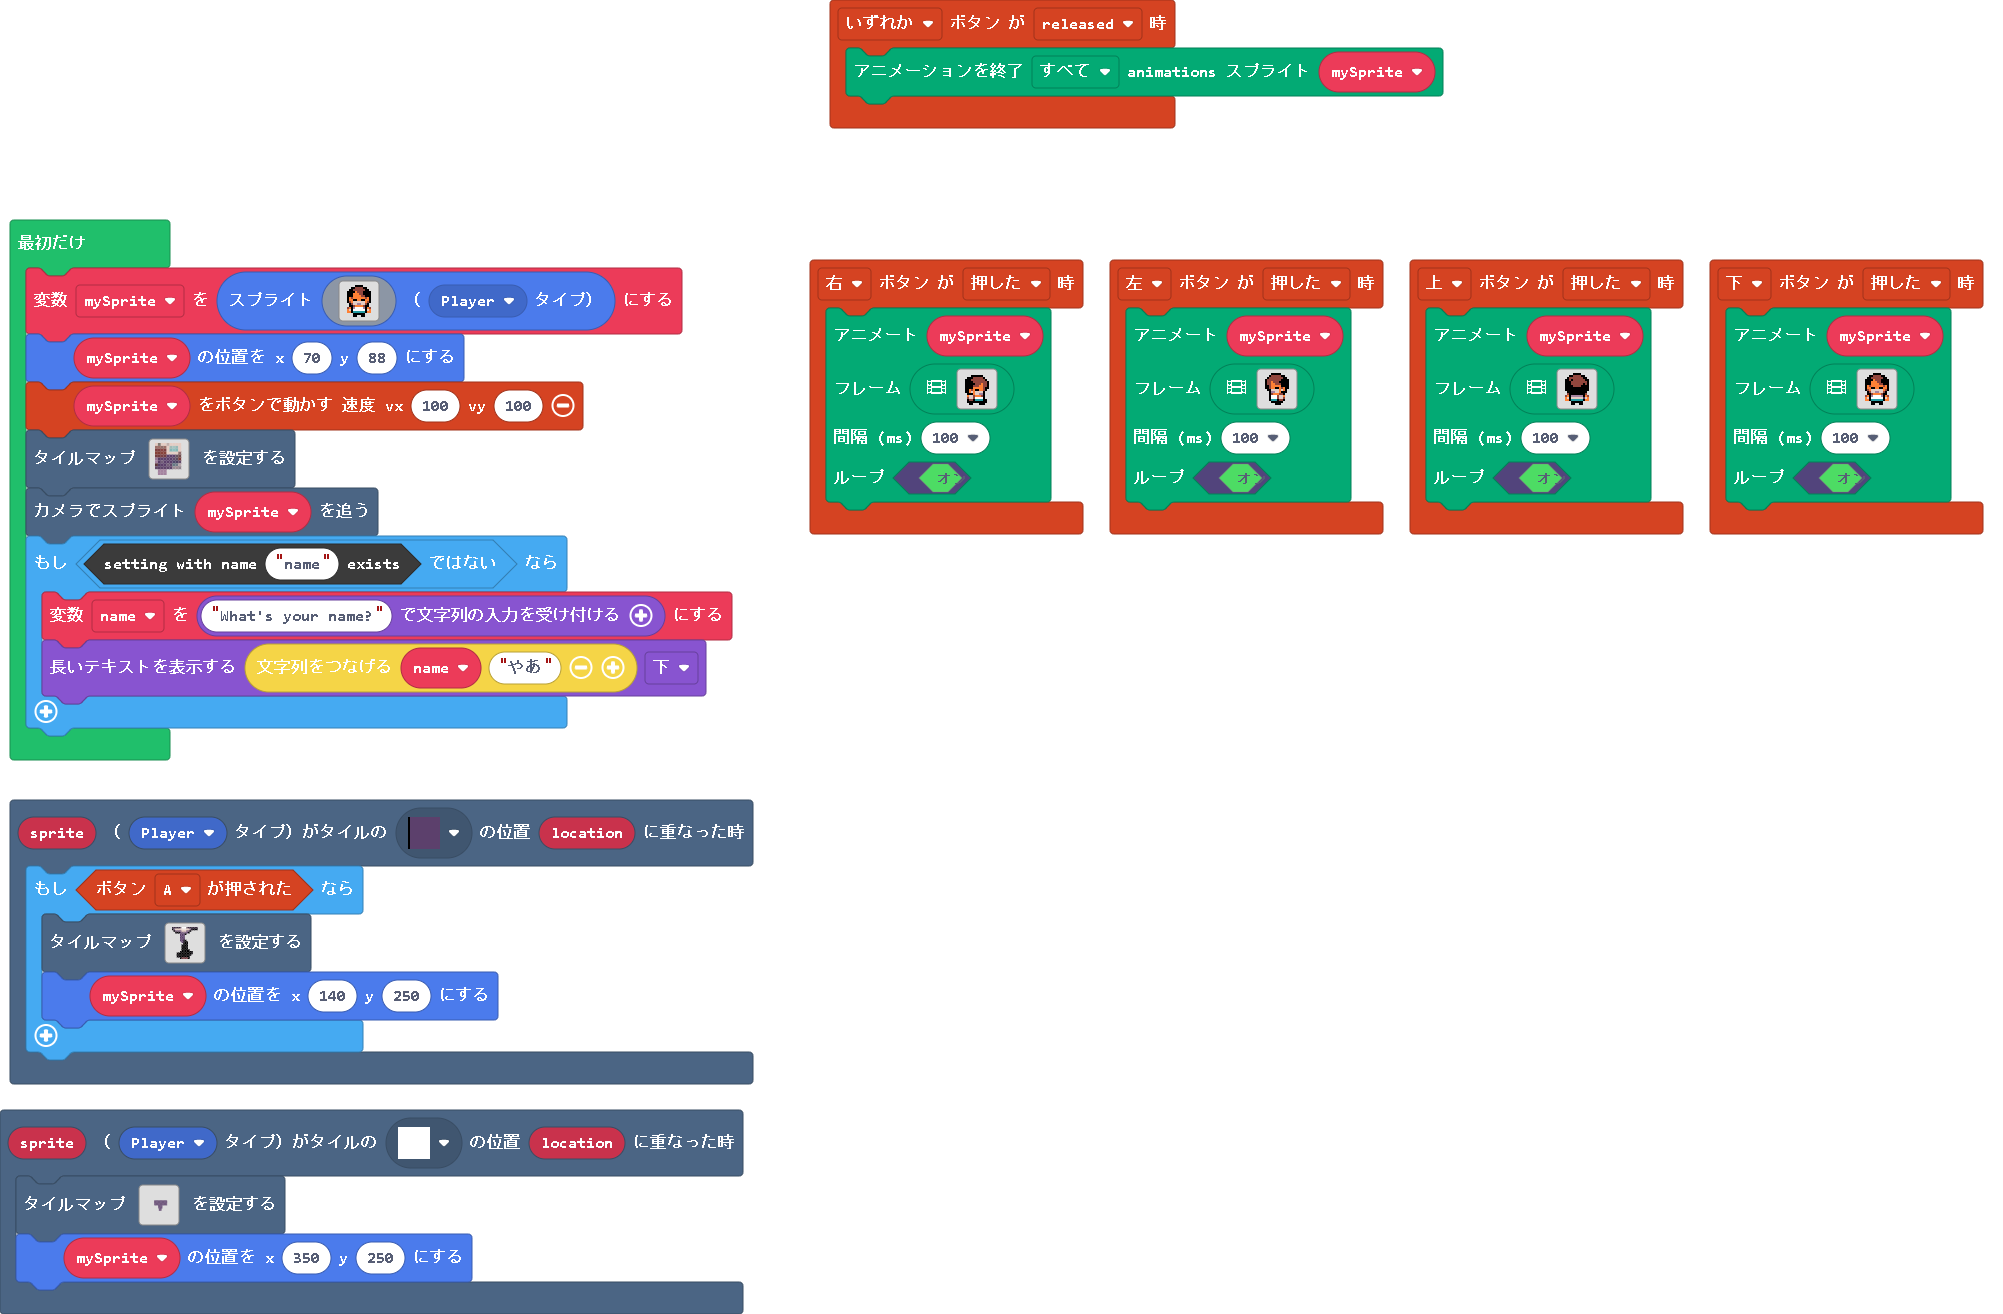
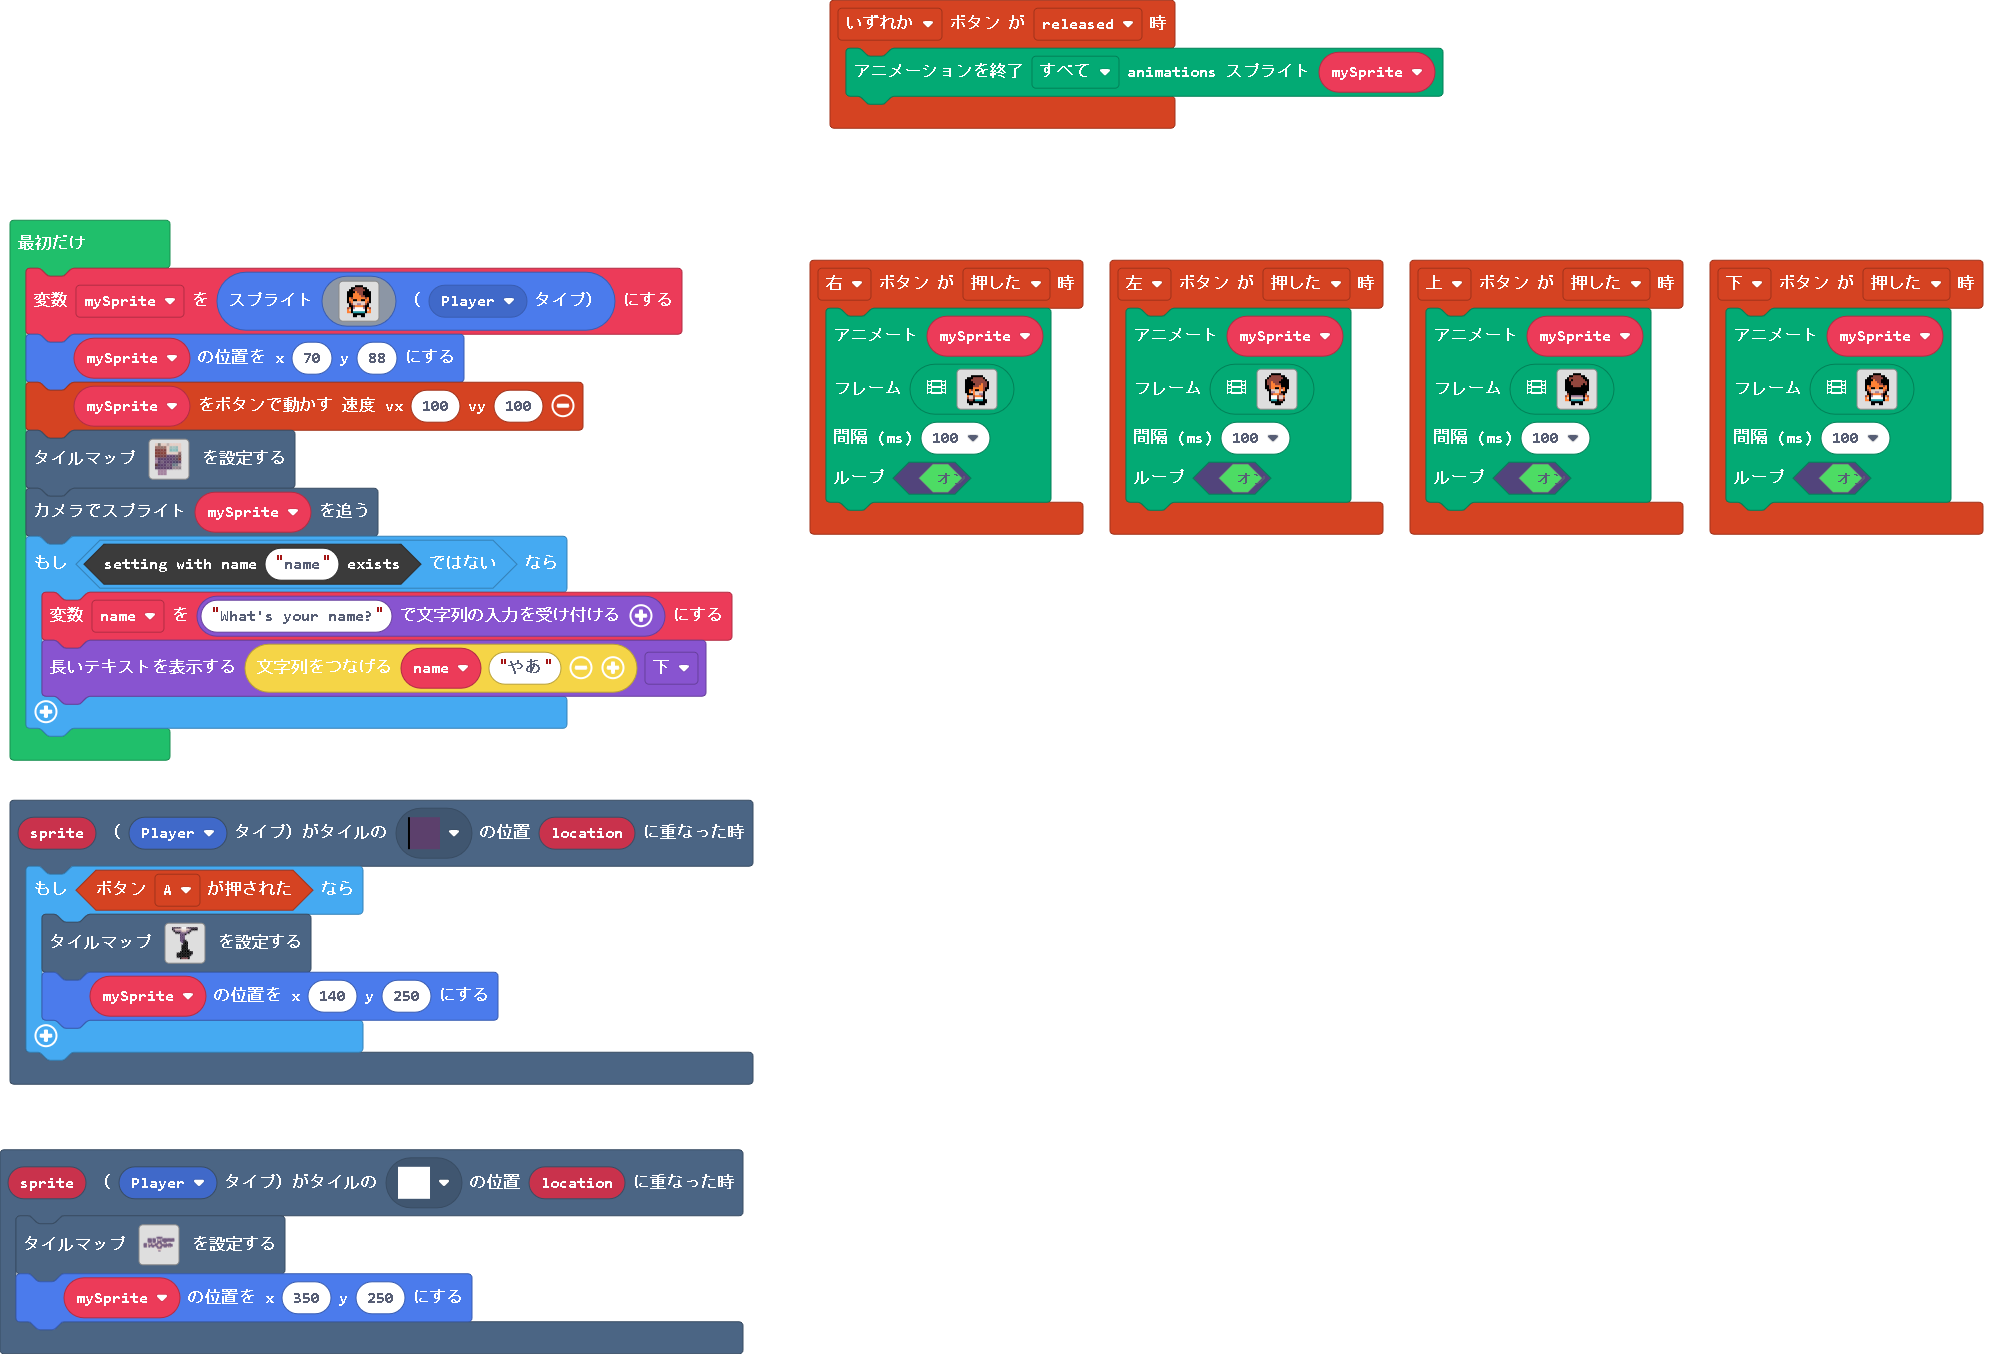
更新 main.blocks, tilemap.g.jres, tilemap.g.ts

Changed region(s): [[0.0, 0.156, 0.4024, 0.9985], [0.4024, 0.1872, 0.9905, 0.4056], [0.4333, 0.0312, 0.7119, 0.1248]]

diff --git a/tilemap.g.ts b/tilemap.g.ts
@@ -33,8 +33,6 @@ namespace myTiles {
     //% fixedInstance jres blockIdentity=images._tile
     export const tile26 = image.ofBuffer(hex``);
     //% fixedInstance jres blockIdentity=images._tile
-    export const tile24 = image.ofBuffer(hex``);
-    //% fixedInstance jres blockIdentity=images._tile
     export const tile28 = image.ofBuffer(hex``);
     //% fixedInstance jres blockIdentity=images._tile
     export const tile37 = image.ofBuffer(hex``);
@@ -139,19 +137,11 @@ namespace myTiles {
     //% fixedInstance jres blockIdentity=images._tile
     export const tile11 = image.ofBuffer(hex``);
     //% fixedInstance jres blockIdentity=images._tile
-    export const tile14 = image.ofBuffer(hex``);
-    //% fixedInstance jres blockIdentity=images._tile
     export const tile73 = image.ofBuffer(hex``);
     //% fixedInstance jres blockIdentity=images._tile
     export const tile74 = image.ofBuffer(hex``);
     //% fixedInstance jres blockIdentity=images._tile
     export const tile35 = image.ofBuffer(hex``);
-    //% fixedInstance jres blockIdentity=images._tile
-    export const tile75 = image.ofBuffer(hex``);
-    //% fixedInstance jres blockIdentity=images._tile
-    export const tile76 = image.ofBuffer(hex``);
-    //% fixedInstance jres blockIdentity=images._tile
-    export const tile77 = image.ofBuffer(hex``);
     //% fixedInstance jres blockIdentity=images._tile
     export const tile78 = image.ofBuffer(hex``);
     //% fixedInstance jres blockIdentity=images._tile
@@ -162,6 +152,14 @@ namespace myTiles {
     export const tile12 = image.ofBuffer(hex``);
     //% fixedInstance jres blockIdentity=images._tile
     export const tile10 = image.ofBuffer(hex``);
+    //% fixedInstance jres blockIdentity=images._tile
+    export const tile24 = image.ofBuffer(hex``);
+    //% fixedInstance jres blockIdentity=images._tile
+    export const tile77 = image.ofBuffer(hex``);
+    //% fixedInstance jres blockIdentity=images._tile
+    export const tile76 = image.ofBuffer(hex``);
+    //% fixedInstance jres blockIdentity=images._tile
+    export const tile75 = image.ofBuffer(hex``);
 
     helpers._registerFactory("tilemap", function(name: string) {
         switch(helpers.stringTrim(name)) {
@@ -260,25 +258,6 @@ namespace myTiles {
 . . . . . . . . . . . . . . . . 
 . . . . . . . . . . . . . . . . 
 `, [myTiles.transparency16], TileScale.Sixteen);
-            case "8entryway":
-            case "レベル8":return tiles.createTilemap(hex`2800100000000000000000000000000000000000000000000000000000000000000000000000000000000000000000000000000000000000000000000000000000000000000000000000000000000000000000000000000000000000000000000000000000000000000000000000000000000000000000000000000000000000000000000000000000000101010101010101010101010101010100000000000000000000000000000000000000000000000001010101010101010101010101010101000000000000000000000000000000000000000000000000010101010101010101010101010101010000000000000000000000000000000000000000000000000101010101010101010101010101010100000000000000000000000000000000000000000000000001010101010101010101010101010101000000000000000000000000000000000000000000000000010101010101010101010101010101010000000000000000000000000000000000000000000000000000000000010101010100000000000000000000000000000000000000000000000000000000000000000000000101010101000000000000000000000000000000000000000000000000000000000000000000000001010101010000000000000000000000000000000000000000000000000000000000000000000000010101010100000000000000000000000000000000000000000000000000000000000000000000000001010100000000000000000000000000000000000000000000000000000000000000000000000000010101000000000000000000000000000000000000000000000000000000000000000000000000000101010000000000000000000000000000000000`, img`
-........................................
-........................................
-........................................
-........................................
-........................................
-........................................
-........................................
-........................................
-........................................
-........................................
-........................................
-........................................
-........................................
-........................................
-........................................
-........................................
-`, [myTiles.transparency16,myTiles.tile7], TileScale.Sixteen);
             case "aisle":
[1 lines of base64/hex data omitted]
 222222...2222222
@@ -303,7 +282,7 @@ namespace myTiles {
 22222.2222.22222
 `, [myTiles.transparency16,myTiles.tile7,myTiles.tile47,myTiles.tile46,myTiles.tile34,sprites.builtin.oceanSand13,sprites.builtin.oceanSand15,myTiles.tile53,myTiles.tile55,myTiles.tile56,myTiles.tile57,myTiles.tile54,myTiles.tile58,myTiles.tile59,myTiles.tile60,myTiles.tile61,myTiles.tile62,myTiles.tile63,myTiles.tile64,myTiles.tile65,myTiles.tile66,myTiles.tile67,myTiles.tile68,myTiles.tile70,myTiles.tile71,myTiles.tile72,myTiles.tile48], TileScale.Sixteen);
             case "home":
[2 lines of base64/hex data omitted]
 . . . . . . . . . 
 . . . . . . . . . 
 . . . . . . . . . 
@@ -315,7 +294,28 @@ namespace myTiles {
 . . . . . . . . . 
 . . . . . . . . . 
 . . . . . . . . . 
-`, [myTiles.transparency16,myTiles.tile6,myTiles.tile7,myTiles.tile8,myTiles.tile9,myTiles.tile12,myTiles.tile13,myTiles.tile14,myTiles.tile1,myTiles.tile2,myTiles.tile4,myTiles.tile5,myTiles.tile15,myTiles.tile16,myTiles.tile18,myTiles.tile19,myTiles.tile20,myTiles.tile17,myTiles.tile3,myTiles.tile21,myTiles.tile23,myTiles.tile25,myTiles.tile24,myTiles.tile28,myTiles.tile29,myTiles.tile30,myTiles.tile31,myTiles.tile32,myTiles.tile33,myTiles.tile34,myTiles.tile35,myTiles.tile36,myTiles.tile37,myTiles.tile27,myTiles.tile38,myTiles.tile39,myTiles.tile40,myTiles.tile41,myTiles.tile22,myTiles.tile42,myTiles.tile43,myTiles.tile45,myTiles.tile47,myTiles.tile69,myTiles.tile73,myTiles.tile74,myTiles.tile75,myTiles.tile76,myTiles.tile77,myTiles.tile78,myTiles.tile80,myTiles.tile81,myTiles.tile10], TileScale.Sixteen);
+`, [myTiles.transparency16,myTiles.tile6,myTiles.tile7,myTiles.tile8,myTiles.tile9,myTiles.tile12,myTiles.tile13,myTiles.tile1,myTiles.tile2,myTiles.tile4,myTiles.tile5,myTiles.tile15,myTiles.tile16,myTiles.tile18,myTiles.tile19,myTiles.tile20,myTiles.tile17,myTiles.tile3,myTiles.tile21,myTiles.tile23,myTiles.tile25,myTiles.tile24,myTiles.tile28,myTiles.tile29,myTiles.tile30,myTiles.tile31,myTiles.tile32,myTiles.tile33,myTiles.tile34,myTiles.tile35,myTiles.tile36,myTiles.tile37,myTiles.tile27,myTiles.tile38,myTiles.tile39,myTiles.tile40,myTiles.tile41,myTiles.tile22,myTiles.tile42,myTiles.tile43,myTiles.tile45,myTiles.tile47,myTiles.tile69,myTiles.tile73,myTiles.tile74,myTiles.tile75,myTiles.tile76,myTiles.tile77,myTiles.tile78,myTiles.tile80,myTiles.tile81,myTiles.tile10], TileScale.Sixteen);
+            case "8entryway":
+            case "レベル8":return tiles.createTilemap(hex`28001200000000000000000000000000000000000001010101010101000000000000000000000000000000000000000000000000000000000000000000010101010101010000000000000000000000000000000000000000000001010101010001010101000000010101000001010101010101010101010101010100000000000000010101010100010101010000010202020100010101010101010101010101010101000000000000000101010101000101010100000102020201000101010101010101010101010101010000000000000001010101010001010101000001010101010001010101010101010101010101010100000000000000010101010100010101010000010101010100000001010100000000000000000000000000000000000000010100000001010002020101010101000000010101000000000200000000000000010101010000010202010102020201010101010201010102020202020102020101010000000000000101010102020102020101020202010101010202020101010101010101010101010101010000000001010101020201010101010101010101010202020202010101010101010101010101010100000000010101010202010101010101010101010101020202010101010101010101010101010101000000000101010100000101020201010102020201010102010101020201010101020201020100000000000000000000000000000000000000000000000101010101000000000000000000000000000000000000000000000000000000000000000000000001010101010000000000000000000000000000000000000000000000000000000000000000000000020202020200000000000000000000000000000000000000000000000000000000000000000000000202020202000000000000000000000000000000000000000000000000000000000000000000000000010101000000000000000000000000000000000000`, img`
+........................................
+........................................
+........................................
+........................................
+........................................
+........................................
+........................................
+........................................
+........................................
+........................................
+........................................
+........................................
+........................................
+........................................
+........................................
+........................................
+........................................
+........................................
+`, [myTiles.transparency16,myTiles.tile7,myTiles.tile17], TileScale.Sixteen);
         }
         return null;
     })
@@ -353,8 +353,6 @@ namespace myTiles {
             case "tile19":return tile19;
             case "myTile24":
             case "tile26":return tile26;
-            case "myTile22":
-            case "tile24":return tile24;
             case "myTile26":
             case "tile28":return tile28;
             case "myTile35":
@@ -459,20 +457,12 @@ namespace myTiles {
             case "tile8":return tile8;
             case "myTile9":
             case "tile11":return tile11;
-            case "myTile12":
-            case "tile14":return tile14;
             case "myTile71":
             case "tile73":return tile73;
             case "myTile72":
             case "tile74":return tile74;
             case "myTile33":
             case "tile35":return tile35;
-            case "myTile73":
-            case "tile75":return tile75;
-            case "myTile74":
-            case "tile76":return tile76;
-            case "myTile75":
-            case "tile77":return tile77;
             case "myTile76":
             case "tile78":return tile78;
             case "myTile78":
@@ -483,6 +473,14 @@ namespace myTiles {
             case "tile12":return tile12;
             case "myTile8":
             case "tile10":return tile10;
+            case "myTile22":
+            case "tile24":return tile24;
+            case "myTile75":
+            case "tile77":return tile77;
+            case "myTile74":
+            case "tile76":return tile76;
+            case "myTile73":
+            case "tile75":return tile75;
         }
         return null;
     })
